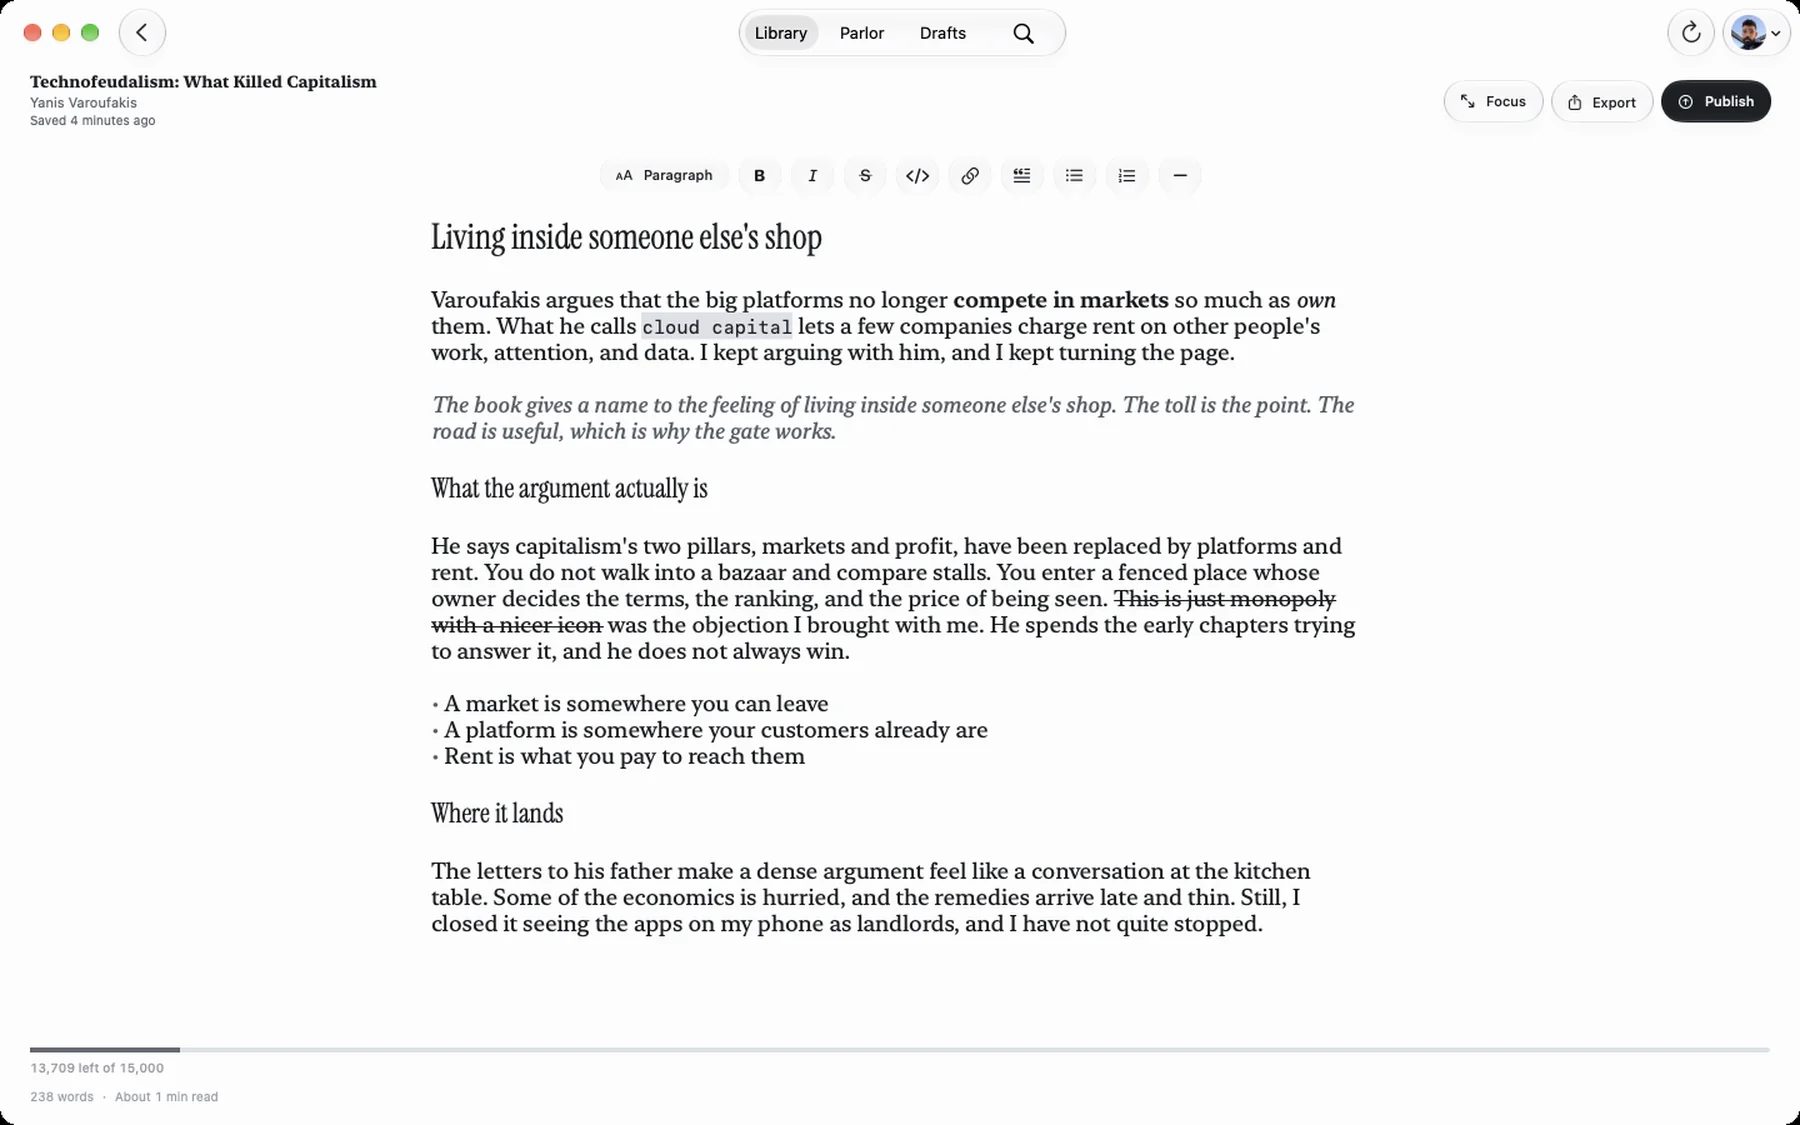
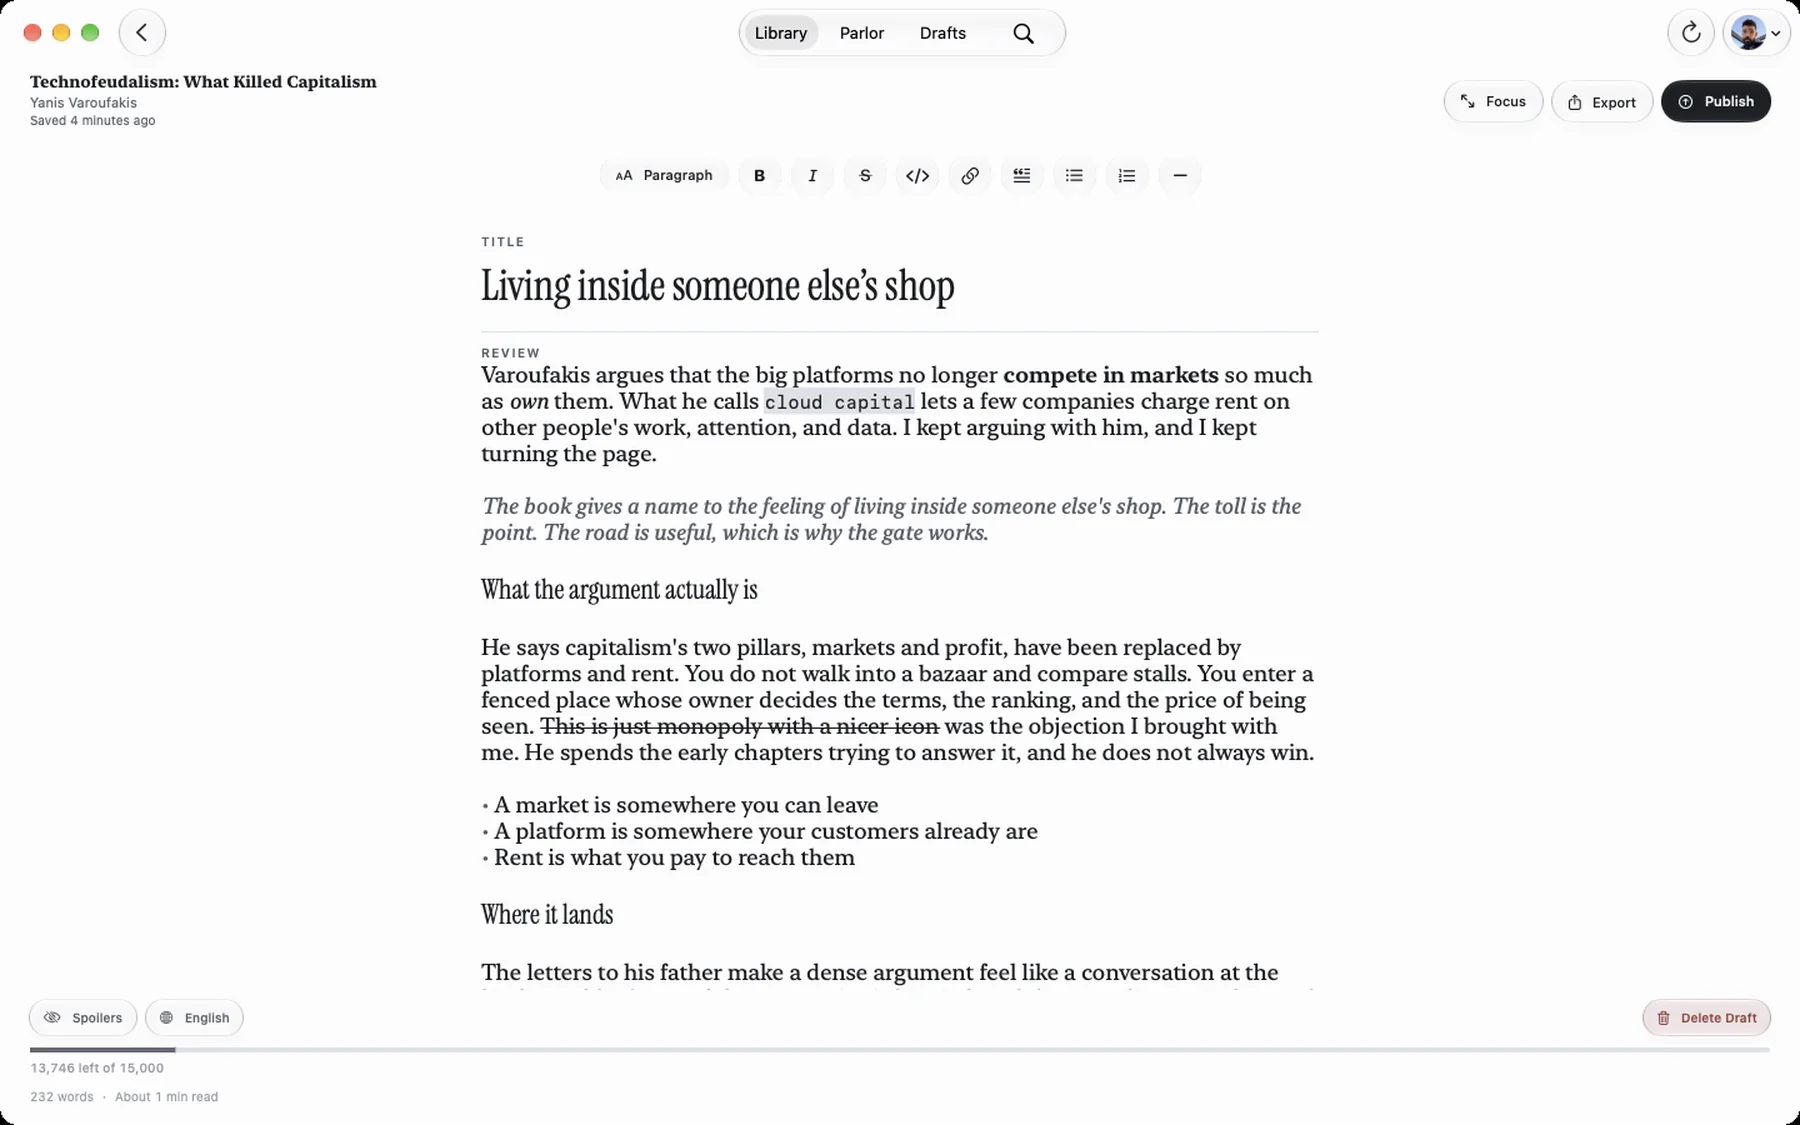
Privacy page for the current app, and a current editor screenshot
- Privacy covers the publication choice, titles, spoiler marks and languages, Post to the Atmosphere,
  drafts kept on unpublish, names and spoiler marks in lists, barcode scanning, feedback,
  and the language the home page remembers
- The Write section shows the editor with its title, spoiler and language controls

diff --git a/privacy.html b/privacy.html
@@ -18,16 +18,17 @@
 <body>
   <main>
     <h1>Privacy</h1>
-    <p>Resenha does not have its own accounts, and it does not collect data about you. Its website, resenha.ink, stores nothing: it shows published reviews by reading them from their writers’ public accounts when someone opens them.</p>
+    <p>Resenha does not have its own accounts, and it does not collect data about you. Its website, resenha.ink, shows published reviews by reading them from their writers’ public accounts when someone opens them. The only thing it keeps is the language you choose on its home page, saved in your own browser so the page opens in that language next time.</p>
 
     <h2>On your devices</h2>
     <p>Signing in keeps a session in the keychain on that device, so you stay logged in. Signing out removes it.</p>
     <p>Drafts stay on the device. If iCloud is on, they also sync through your iCloud to your other devices. They are not published, and Resenha does not upload them anywhere else.</p>
+    <p>When you unpublish a review, its text goes back to being a draft, kept the same way, until you delete the draft.</p>
 
     <h2>When you publish</h2>
     <p>Publish saves the review to your own Atmosphere account, the same account you use with BookHive. From then on it belongs to that account. Resenha does not keep a copy.</p>
-    <p>The review is saved twice. Formatted, as a Standard.site article, which resenha.ink and other reading apps show. And as plain text on the book’s BookHive record, so BookHive shows it without formatting marks. Resenha also saves a small record that links the review to its book, and a picture of the book’s cover for its link card. The first time you publish, Resenha creates your publication, named after your profile and with your profile photo. All of it is public, like the review.</p>
-    <p>If “Share on Bluesky” is on, Resenha also posts to Bluesky from your account, with a link to the review. Replies to that post are the review’s comments, and a comment you write in Resenha is posted as a reply from your account. Unpublishing removes the review, its link and the Bluesky post that announced it from your account. Replies other people wrote stay in their own accounts.</p>
+    <p>The review is saved twice. Formatted, as a Standard.site article, which resenha.ink and other reading apps show. And as plain text on the book’s BookHive record, so BookHive shows it without formatting marks. Resenha also saves a small record that links the review to its book, and a picture of the book’s cover for its link card. The review’s title, whether you marked it as having spoilers, and the languages it’s written in are saved with it. The first time you publish, you choose where the review goes: a Book Reviews publication Resenha creates for you, named after your profile and with Resenha’s icon, or one of your existing Standard.site publications. All of it is public, like the review.</p>
+    <p>If “Post to the Atmosphere” is on, Resenha also posts from your account, with a link to the review. The post appears on Bluesky, Mu Social and other apps that read the Atmosphere. Replies to that post are the review’s comments, and a comment you write in Resenha is posted as a reply from your account. Unpublishing removes the review, its link and the Bluesky post that announced it from your account. Replies other people wrote stay in their own accounts.</p>
     <p>resenha.ink is hosted by Netlify, which, like any web host, handles the requests of the people who visit it.</p>
     <p>Your password is entered on your account host’s page, such as Bluesky. It is never sent to Resenha.</p>
 
@@ -38,6 +39,12 @@
     <h2>Following and the Parlor</h2>
     <p>Following a reader saves a follow to your own Atmosphere account. It is the same follow Bluesky and BookHive use, so following or unfollowing in Resenha does the same there, and like other follows it is public.</p>
     <p>The Parlor shows what the people you follow started and finished. To build it, Resenha asks BookHive for their public profiles, and keeps a copy on the device so it opens quickly. Signing out deletes it.</p>
+
+    <h2>Reading reviews</h2>
+    <p>Community reviews come from BookHive’s public feed. To show their writers’ names, Resenha looks them up in Bluesky’s public directory. To know whether a review is marked as having spoilers, and the languages it’s in, Resenha reads the public review links in its writer’s account. Resenha keeps copies of these on the device so lists open quickly. Nothing about you is sent with these requests.</p>
+
+    <h2>Scanning a barcode</h2>
+    <p>On iPhone and iPad, Resenha can use the camera to read a book’s barcode. The picture is read on the device and is never saved or sent anywhere. Only the number it finds, the book’s ISBN, is used to search BookHive’s catalog.</p>
 
     <h2>When you report or block</h2>
     <p>A report is sent from your account to the network’s moderation service, Bluesky’s, with the review, post or account you reported. A block is saved to your own account, where other apps can see and respect it.</p>
@@ -52,10 +59,11 @@
     <h2>What we don’t do</h2>
     <p>No ads. No tracking. No analytics. We don’t sell data, because we don’t hold any.</p>
 
-    <h2>Feedback</h2>
+    <h2>Sending feedback</h2>
+    <p>Feedback you send from Resenha is posted from your account to Resenha’s public board on userinput.app, with any screenshots you add. Like a review, it is public, anyone can read it, and it stays in your account.</p>
     <p><a href="https://userinput.app/s/did:plc:o45y7ehjcfhasrzjjtsxloc5/3mxksvihdi32z">Questions, ideas, and bug reports.</a></p>
 
-    <p class="back"><a href="index.html">Resenha</a> · <a href="terms.html">Terms of Use</a></p>
+    <p class="back"><a href="/">Resenha</a> · <a href="terms.html">Terms of Use</a></p>
   </main>
 </body>
 </html>
